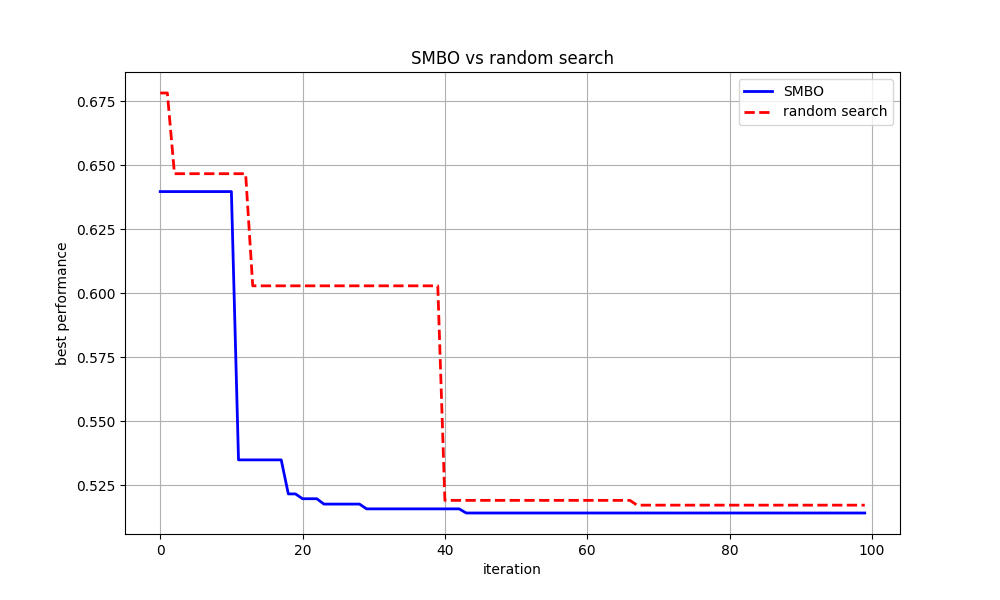
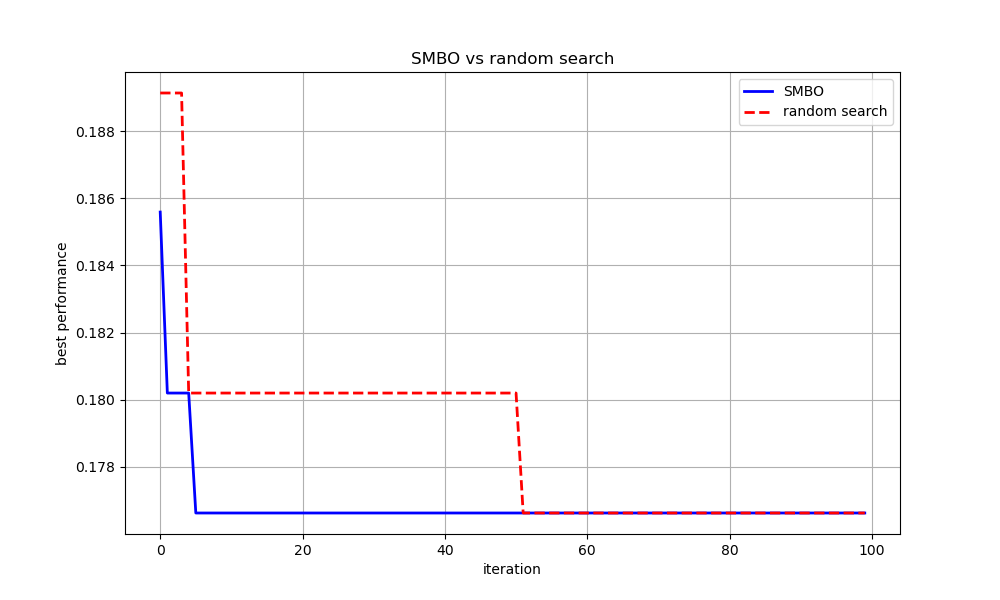
plotting finished

diff --git a/A1/surrogate_model.py b/A1/surrogate_model.py
@@ -1,15 +1,11 @@
 
 
-from sklearn.impute import SimpleImputer
-from sklearn.preprocessing import OneHotEncoder
 from sklearn.model_selection import train_test_split
 from sklearn.ensemble import RandomForestRegressor
-from sklearn.metrics import mean_squared_error, r2_score
+from sklearn.metrics import r2_score
 from sklearn.pipeline import Pipeline
 import numpy as np
 import pandas as pd
-from skopt import BayesSearchCV
-from skopt.space import Real, Categorical, Integer
 import ConfigSpace
 from config_encoder import ConfigEncoder
 
@@ -20,65 +16,7 @@ class SurrogateModel:
         self.df = None
         self.encoder = ConfigEncoder(self.config_space)
         self.model = Pipeline([
-            # ('encoder',self.encoder),
-                            #    ('imputer', SimpleImputer(missing_values=np.nan, strategy='mean')), 
                                ('model', RandomForestRegressor())])  
-        # data = pd.read_csv('lcdb_configs.csv')
-        # self.best = {}
-        # self.hp_search(data)
-        
-        # self.best = {'model__bootstrap': False, 
-        #              'model__criterion': 'squared_error', 
-        #              'model__max_depth': 20, 
-        #              'model__max_features': 0.6984621976195288, 
-        #              'model__min_samples_leaf': 2, 
-        #              'model__min_samples_split': 2}
-    
-    def hp_search(self,df):
-        """
-        Receives a data frame, in which each column (except for the last two) represents a hyperparameter, the
-        penultimate column represents the anchor size, and the final column represents the performance.
-
-        :param df: the dataframe with performances
-        :return: Does not return anything, but stores the trained model in self.model
-        """ 
-        self.df = df 
-        features = df.columns[:-1]
-        label = df.columns[-1]
-        # Split data
-        X_train, X_test, y_train, y_test = train_test_split(df[features],df[label],test_size=0.2)
-
-        # Define random forest search space
-        search_space  = {
-                'model__criterion': Categorical(['squared_error', 'absolute_error', 'friedman_mse', 'poisson']),
-                'model__n_estimators': Integer(10,1000),
-                'model__max_depth': Integer(10,50),
-                'model__min_samples_split': Integer(2,30),
-                'model__min_samples_leaf': Integer(1,30),
-                'model__max_features':Real(0.1,1),
-                'model__bootstrap':Categorical([True,False]),
-            }
-
-        # Optimize hyper params
-        opt = BayesSearchCV(
-        estimator=self.model,
-        search_spaces=search_space,
-        n_iter=32,              # Number of iterations
-        scoring='r2',     # You can change this to other metrics if needed
-        cv=5,               # 5-fold cross-validation
-        n_jobs = 15,
-        n_points=3,
-        verbose=1
-        )
-        opt.fit(X_train,y_train)
-        y_pred = opt.predict(X_test)
-        self.best = opt.best_params_
-        print("Best Score:", opt.best_score_)
-        print(f'R2: {r2_score(y_test,y_pred)},mse: {mean_squared_error(y_test,y_pred)}')
-        print("Best params:")
-        print(opt.best_params_)
-        
-
 
     def fit(self, df):
         """
@@ -92,9 +30,7 @@ class SurrogateModel:
         self.features = df.columns[:-1]
         self.label = df.columns[-1]
         df_encoded = self.encoder.transform(df)
-
         self.df = df_encoded
-
         self.model.fit(df_encoded[self.features],y)
 
     def predict(self, theta_new):
@@ -113,19 +49,5 @@ class SurrogateModel:
         for col in self.features:
             if col not in X.columns:
                 X[col] = None
-        
-        # print(X)
         T = self.encoder.transform(X)
-        # print("T: " , T)
-        
         return self.model.predict(T[self.features])
-
-
-# if __name__ == '__main__':
-#     files = ['lcdb_configs.csv','config_performances_dataset-6.csv','config_performances_dataset-11.csv','config_performances_dataset-1457.csv']
-#     data = pd.DataFrame()
-#     for file in files:
-#         data = pd.concat([data,pd.read_csv(file)])
-#     config_space = ConfigSpace.ConfigurationSpace.from_json('./lcdb_config_space_knn.json')
-#     sm = SurrogateModel(config_space)
-#     sm.hp_search(data)

diff --git a/A1/run_experiment2.py b/A1/run_experiment2.py
@@ -1,0 +1,101 @@
+import argparse
+import ConfigSpace
+import matplotlib.pyplot as plt
+import pandas as pd
+from random_search import RandomSearch
+from surrogate_model import SurrogateModel
+from smbo import SequentialModelBasedOptimization
+from config_encoder import ConfigEncoder
+ 
+import numpy as np
+
+def plot_optimization_comparison(results_smbo, results_random):
+    plt.figure(figsize=(10, 6))
+    
+    best_smbo = np.minimum.accumulate(results_smbo)
+    best_random = np.minimum.accumulate(results_random)
+    
+    iterations = range(len(best_smbo))
+    plt.plot(iterations, best_smbo, 'b-', label='SMBO', linewidth=2)
+    plt.plot(iterations, best_random, 'r--', label='random search', linewidth=2)
+    
+    plt.xlabel('iteration')
+    plt.ylabel('best performance')
+    plt.title('SMBO vs random search')
+    plt.legend()
+    plt.grid(True)
+    plt.savefig('comparison.png')
+    plt.show()
+    
+
+def run():
+    config_space = ConfigSpace.ConfigurationSpace.from_json('lcdb_config_space_knn.json')
+    random_search = RandomSearch(config_space)
+    smbo = SequentialModelBasedOptimization(config_space)
+    surrogate_model = SurrogateModel(config_space)
+    dfs = []
+    data_files = ['config_performances_dataset-6.csv','config_performances_dataset-11.csv',
+                  'config_performances_dataset-1457.csv','lcdb_configs.csv'] 
+    for file in data_files:
+        dfs.append(pd.read_csv(f'{file}'))
+
+    colors = ['tab:blue','tab:orange','tab:green','tab:red']
+    labels = ['dataset-6','dataset-11','dataset-1457','lcdb-configs']
+
+    results_smbo = {name:[] for name in labels}
+    results_random = {name:[] for name in labels}
+    for name,df in zip(labels,dfs):
+        print(name)
+        surrogate_model.fit(df)
+        thetas = config_space.sample_configuration(10)
+        thetas_df = pd.DataFrame([dict(theta) for theta in thetas])
+        thetas_df["anchor_size"] = 1600
+        
+        performances = surrogate_model.predict(thetas_df)
+        capital_phi = list(zip(thetas_df.to_dict('records'), performances))
+        # print("performances on thetas: \n", performances)
+        smbo.initialize(capital_phi) 
+
+        for idx in range(100):
+            # smbo
+            theta_smbo = smbo.select_configuration(idx)
+            theta_df = pd.DataFrame([dict(theta_smbo)])
+            theta_df["anchor_size"] = 1600
+            perf_smbo = surrogate_model.predict(theta_df)
+                
+            # maybe plot perf_smbo against smbo.theta_inc_performance
+            smbo.update_runs((theta_df.to_dict('records')[0], perf_smbo))
+            results_smbo[name].append(perf_smbo)
+            
+            # random Search
+            theta_random = random_search.select_configuration()
+            theta_random_df = pd.DataFrame([dict(theta_random)])
+            theta_random_df["anchor_size"] = 1600
+            perf_random = surrogate_model.predict(theta_random_df)
+            results_random[name].append(perf_random)
+            
+    plt.figure(figsize=(8, 6))
+    for name,color,df in zip(labels,colors,dfs):
+        plot_smbo = [np.min(results_smbo[name][:i]) for i in range(1,len(results_smbo[name]))]
+        plot_random = [np.min(results_random[name][:i]) for i in range(1,len(results_random[name]))]
+        
+        iterations = range(len(plot_smbo))
+        plt.plot(range(1, 100), plot_smbo, color = color, label = f'{name} - smbo')
+        plt.plot(range(1, 100), plot_random, color = color, linestyle = '--', label = f'{name} - rs')
+        if name == 'dataset-6':
+            plt.axhline(y = df['score'].min(), color = color, linestyle = ':',label='best score in dataset') 
+        else:
+            plt.axhline(y = df['score'].min(), color = color, linestyle = ':') 
+    plt.ylim((0,1))
+    plt.title('SMBO & RS comparison per dataset')
+    plt.xlabel('Iteration')
+    plt.ylabel('Performance')
+    plt.grid(True)
+    plt.legend()
+    plt.savefig('compare_smbo_rs.png')
+    plt.show()
+    
+    #plot_optimization_comparison(results_smbo, results_random)
+
+if __name__ == '__main__':
+    run()

diff --git a/A1/halving.py b/A1/halving.py
@@ -18,9 +18,9 @@ def parse_args():
 def plot_halving_curves(curves,anchors):
     for i,curve in curves.items():
         plt.plot(anchors[:len(curve)],curve)
-    plt.title('SuccessiveHalving')
-    plt.xlabel('data size')
-    plt.ylabel('error')
+    plt.title('Successive Halving')
+    plt.xlabel('Data Size')
+    plt.ylabel('Performance')
     plt.savefig('halving.png')
     plt.show()
 
@@ -48,10 +48,12 @@ class SuccessiveHalving():
     def run(self):
         start = 16
         for step in range(self.iterations):
-            anchor = 16*(2**(step+1))
+            anchor = start*(2**(step+1))
             self.anchors.append(anchor)
+            if anchor > self.df.anchor_size.max():
+                continue
             print(f'Anchor = {anchor}')
-            self.surrogate_model.fit(self.df.loc[self.df['anchor_size']==anchor])
+            self.surrogate_model.fit(self.df.loc[(self.df['anchor_size']>anchor/2)&(self.df['anchor_size']<(2*anchor))])
             errors = {}
             for i,config in enumerate(self.configs):
                 # convert config to df with anchor size, for new logic of encoder
@@ -72,17 +74,55 @@ class SuccessiveHalving():
 
 
             #self.in_race = np.argpartition(errors, len(errors)//self.halving_rate)[:len(errors)//self.halving_rate]
-            self.in_race = ind_to_keep
+            self.in_race = ind_to_keep[:len(errors)//self.halving_rate]
             print(f'Best: {np.min([err for err in errors.values()])}, in race: {len(self.in_race)}')
             
 
 def main(args):
     config_space = ConfigSpace.ConfigurationSpace.from_json(args.config_space_file)
     df = pd.read_csv(args.configurations_performance_file)
+    # Demonstrate successful halving
     halving = SuccessiveHalving(config_space,df)
     halving.initialize(iterations = 7, halving_rate = 3)
     halving.run()
     plot_halving_curves(halving.curves,halving.anchors)
+
+    # Compare halfing results per dataset
+    dfs = []
+    data_files = ['config_performances_dataset-6.csv','config_performances_dataset-11.csv',
+                  'config_performances_dataset-1457.csv','lcdb_configs.csv'] 
+    for file in data_files:
+        dfs.append(pd.read_csv(f'{file}'))
+
+    colors = ['tab:blue','tab:orange','tab:green','tab:red']
+    labels = ['dataset-6','dataset-11','dataset-1457','lcdb-configs']
+
+    curves = {}
+    anchors = {}
+    for name,df in zip(labels,dfs):
+        halving = SuccessiveHalving(config_space,df)
+        print(name, 'available anchors:', df.anchor_size.min(),df.anchor_size.max())
+        halving.initialize(iterations = 7, halving_rate = 3)
+        halving.run()
+        curves[name] = halving.curves
+        anchors[name] = halving.anchors 
+    for name,color,df in zip(labels,colors,dfs):
+        for i,curve in curves[name].items():
+            if i==0:
+                plt.plot(anchors[name][:len(curve)],curve,color=color, label = f'halving for {name}')
+            else:
+                plt.plot(anchors[name][:len(curve)],curve,color=color)
+        if name == 'dataset-6':
+            plt.axhline(y = df['score'].min(), color = color,linestyle=':',label='best score in dataset') 
+        else:
+            plt.axhline(y = df['score'].min(), color = color, linestyle = ':') 
+    plt.title('Successive Halving comparison per dataset')
+    plt.xlabel('Data Size')
+    plt.ylabel('Performance')
+    plt.legend()
+    plt.grid(True)
+    plt.savefig('halving_compared.png')
+    plt.show()
 
 if __name__ == '__main__':
     main(parse_args())

diff --git a/A1/spearman.py b/A1/spearman.py
@@ -8,34 +8,48 @@ import matplotlib.pyplot as plt
 
 def evaluate_surrogate_model(config_space_file, performance_data_file):
     config_space = ConfigSpace.ConfigurationSpace.from_json(config_space_file)
-    df = pd.read_csv(performance_data_file)
+    #df = pd.read_csv(performance_data_file)
+    fig, ax1 = plt.subplots(figsize=(5, 4))
+    ax2 = ax1.twinx()  # Create a secondary y-axis
+    colors = ['tab:blue','tab:orange','tab:green','tab:red']
+    labels = ['dataset-6','dataset-11','dataset-1457','lcdb-configs']
+    for df,color,label in zip(dfs,colors,labels):
+        train_df, test_df = train_test_split(df, test_size=0.2, random_state=42)
+        surrogate_model = SurrogateModel(config_space)
+        surrogate_model.fit(train_df)
     
-    train_df, test_df = train_test_split(df, test_size=0.2, random_state=42)
+        test_predicted = surrogate_model.predict(test_df)
+        test_actual = test_df['score']
     
-    surrogate_model = SurrogateModel(config_space)
-    surrogate_model.fit(train_df)
+        correlation, p_value = spearmanr(test_actual, test_predicted)
     
-    test_predicted = surrogate_model.predict(test_df)
-    test_actual = test_df['score']
+        ax1.scatter(test_actual, test_predicted, alpha=0.2,color=color,s=3)
+        ax1.plot([min(test_actual), max(test_actual)], [min(test_actual), max(test_actual)], 
+                 linestyle='--',color=color)
+        ax2.hist(df['score'], bins=30, color=color, alpha=0.3, label=f'{label} - correlation: {correlation:.3f}')
     
-    correlation, p_value = spearmanr(test_actual, test_predicted)
-    
-    plt.figure(figsize=(10, 6))
-    plt.scatter(test_actual, test_predicted, alpha=0.5)
-    plt.plot([min(test_actual), max(test_actual)], [min(test_actual), max(test_actual)], 'r--')
-    plt.xlabel('actual performance')
-    plt.ylabel('predicted performance')
-    plt.title(f'spearman correlation: {correlation:.3f}')
+    ax1.set_xlabel('actual performance')
+    ax1.set_ylabel('predicted performance')
+    ax2.set_ylabel('counts')
+    plt.legend()
+    plt.title(f'spearman correlation')
+    plt.tight_layout()
     plt.grid(True)
+    plt.savefig('surrogate_quality.png')
     
     
 if __name__ == "__main__":
     config_space = "lcdb_config_space_knn.json"
     performance_data = "config_performances_dataset-6.csv"
+    dfs = []
+    data_files = ['config_performances_dataset-6.csv','config_performances_dataset-11.csv',
+                  'config_performances_dataset-1457.csv','lcdb_configs.csv'] 
+    for file in data_files:
+        dfs.append(pd.read_csv(file))
     
     evaluate_surrogate_model(
         config_space,
-        performance_data
+        dfs
     )
     
     plt.show()

diff --git a/A1/run_experiment.py b/A1/run_experiment.py
@@ -12,7 +12,7 @@ import numpy as np
 def parse_args():
     parser = argparse.ArgumentParser()
     parser.add_argument('--config_space_file', type=str, default='lcdb_config_space_knn.json')
-    parser.add_argument('--configurations_performance_file', type=str, default='config_performances_dataset-1457.csv')
+    parser.add_argument('--configurations_performance_file', type=str, default='config_performances_dataset-6.csv')
     # max_anchor_size: connected to the configurations_performance_file. The max value upon which anchors are sampled
     parser.add_argument('--max_anchor_size', type=int, default=1600)
     parser.add_argument('--num_iterations', type=int, default=100)

diff --git a/A1/config_encoder.py b/A1/config_encoder.py
@@ -1,7 +1,7 @@
 import ConfigSpace
 from sklearn.base import BaseEstimator, TransformerMixin
 import pandas as pd
-
+pd.set_option('future.no_silent_downcasting', True)
 
 '''
 The class implements the instance methods fit() and transform(). 
